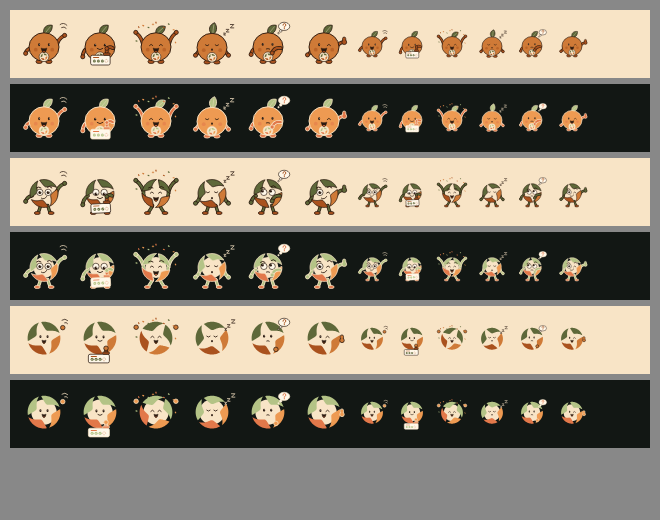
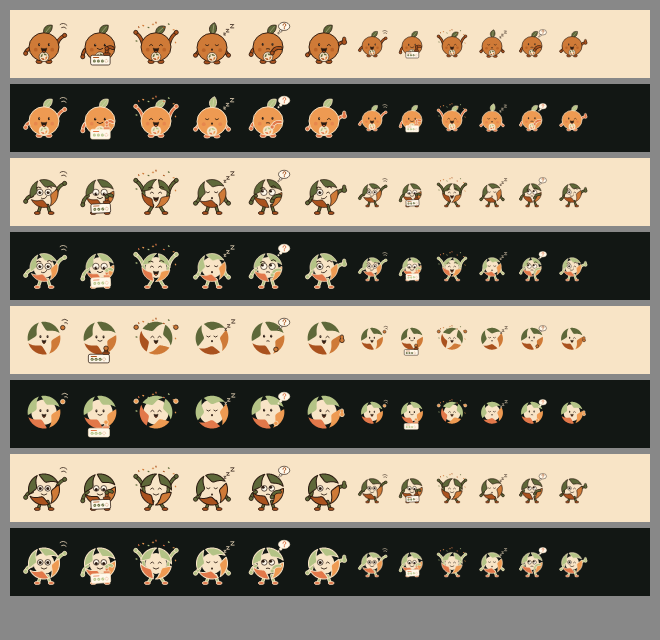
Add small-size Whirl variant and size check

diff --git a/brand/mascot/src/build.py b/brand/mascot/src/build.py
@@ -223,7 +223,7 @@ def dot(t, pose):
 
 
 # ---------- WHIRL: cheeky loop with arms and legs ----------
-def whirl(t, pose):
+def whirl(t, pose, small=False):
     out, O, R = t['OUT'], t['O'], t['R']
     rh, lh = HANDS[pose]
     br, bl = BEND[pose]
@@ -241,7 +241,7 @@ def whirl(t, pose):
     if pose not in ('think', 'stamp'):
         s.append(arm(t, rs, rh, br, O))
     s.append(f'<circle cx="{cx}" cy="{cy}" r="56" fill="{t["P"]}"/>')
-    s.append(mark_group(t, 0.63, cx, cy, tilt, outline=out, ow=4.2))
+    s.append(mark_group(t, 0.70 if small else 0.63, cx, cy, tilt, outline=out, ow=5.5 if small else 4.2))
     ey = cy - 6
     ink = t['INK']
 
@@ -252,8 +252,19 @@ def whirl(t, pose):
         b = brow(88, ey - 24, 112, ey - 24) + brow(146, ey - 28, 170, ey - 24)
     if pose == 'think':
         b = brow(88, ey - 22, 112, ey - 22) + brow(146, ey - 32, 170, ey - 28)
-    s.append(draw_face(t, pose, (106, 150), ey, 128, cy + 22, googly=True, w=14))
-    s.append(b)
+    if small:
+        # plain face: no brows, solid pupils, big smile; reads at 32 px
+        kind, look, m = FACE[pose]
+        def se(x):
+            if kind in ('happy', 'closed') or (pose == 'thumbs' and x > 128):
+                return eye(t, 'happy' if kind != 'closed' else 'closed', x, ey)
+            return (f'<circle cx="{x}" cy="{ey}" r="15" fill="{t["W"]}" stroke="{ink}" stroke-width="4"/>'
+                    f'<circle cx="{x + look[0] * 6}" cy="{ey + look[1] * 6}" r="8" fill="{ink}"/>')
+        mm = {'grin': 'smile', 'smirk': 'smile'}.get(m, m)
+        s.append(se(108) + se(148) + mouth(t, mm, 128, cy + 24, 15))
+    else:
+        s.append(draw_face(t, pose, (106, 150), ey, 128, cy + 22, googly=True, w=14))
+        s.append(b)
     if pose == 'stamp':
         s.append(card(t, 80, 190, 104, 50, rot=-3, filled=3))
         sp = (164, 190)
@@ -301,6 +312,7 @@ def pip(t, pose):
 
 
 CHARS = {'dot': dot, 'whirl': whirl, 'pip': pip}
+SMALL = lambda t, pose: whirl(t, pose, small=True)
 
 
 def main():
@@ -310,6 +322,9 @@ def main():
         for name, fn in CHARS.items():
             for pose in POSES:
                 (d / f'{name}-{pose}.svg').write_text(fn(t, pose), encoding='utf-8')
+            (d / f'whirl-small-{pose}.svg').write_text(SMALL(t, pose), encoding='utf-8') if False else None
+        for pose in POSES:
+            (d / f'whirl-small-{pose}.svg').write_text(SMALL(t, pose), encoding='utf-8')
     print('wrote', len(list((ROOT / 'svg').rglob('*.svg'))), 'svgs')
 
 

diff --git a/brand/mascot/src/render.py b/brand/mascot/src/render.py
@@ -33,7 +33,7 @@ def main():
     for dark in (False, True):
         d = B / 'png' / ('dark' if dark else '')
         d.mkdir(parents=True, exist_ok=True)
-        for name, *_ in NAMES:
+        for name in [n[0] for n in NAMES] + ['whirl-small']:
             for pose in POSES:
                 html = f'<body style="margin:0;background:transparent"><img src="{uri(name, pose, dark)}" width="512" height="512" style="display:block"></body>'
                 shot(html, 512, 512, str(d / f'{name}-{pose}.png'), transparent=True)
@@ -65,12 +65,12 @@ def main():
 
     # 48px / 32px legibility check for all six poses of all three concepts
     cells = []
-    for name, title, *_ in NAMES:
+    for name, title in [(n[0], n[1]) for n in NAMES] + [('whirl-small', 'Whirl small')]:
         for dark in (False, True):
             bg = '#121714' if dark else '#F8E4C6'
             imgs = ''.join(f'<img src="{uri(name, p, dark)}" width="48" height="48">' for p in POSES) + ''.join(f'<img src="{uri(name, p, dark)}" width="32" height="32">' for p in POSES)
             cells.append(f'<div style="background:{bg};padding:10px;display:flex;gap:8px;align-items:center;margin-bottom:6px">{imgs}</div>')
-    shot(f'<body style="margin:0;padding:10px;background:#888;width:640px">{"".join(cells)}</body>', 660, 520, str(B / 'sizes.png'))
+    shot(f'<body style="margin:0;padding:10px;background:#888;width:640px">{"".join(cells)}</body>', 660, 640, str(B / 'sizes.png'))
 
 
 if __name__ == '__main__':

diff --git a/CLAUDE_HANDOFF.md b/CLAUDE_HANDOFF.md
@@ -15,7 +15,8 @@ need Claude's sign-off before the next one starts.
 - **Checks done:** all 36 SVGs generated and rendered in headless Chrome; looked at the contact sheet and individual PNGs; 96/64/48/32 px check on paper and on `#121714`. Recommendation in the README is Dot.
 - **Not done / not verified:** no app or website code changed, no build or OTA. Not tried in an app, splash or icon. Pip's hands/thumb are the roughest drawings. Copy is proposed, not reviewed; old lines were copied from the code, not seen on screen.
 - **Decision (owner, 2026-11-15): Whirl is the mascot.** Dot and Pip are dropped.
-- **Next (Claude):** make a simple small-size Whirl (plain face, fewer blade outlines) so it holds at 32 px, then wait for the owner's yes on the onboarding lines before wiring the mascot and copy into both apps and the website (OTA where JS-only).
+- **Done:** small-size Whirl added (`brand/mascot/svg/whirl-small-*`), checked by eye at 48/32 px on light and dark; modest gain, use the plain brand mark below 32 px.
+- **Next (Claude):** wait for the owner's yes on the onboarding lines before wiring the mascot and copy into both apps and the website (OTA where JS-only).
 
 ## 2026-11-15 - New app icons wired in, NO build started - Claude
 - **Owner approved the redrawn brand mark.** Copied `brand/png/` into both apps' `assets/`: `icon.png`, `android-icon-foreground.png`, `android-icon-monochrome.png`, `splash-icon.png`, `favicon.png`. Both app.json adaptive icons now use `android-icon-foreground.png` as `foregroundImage` (was `icon.png`) with background `#F8E4C6` (Business was `#FDF8EA`). The two apps now share one icon (the old Business icon lacked the orange leaves).

diff --git a/brand/mascot/README.md b/brand/mascot/README.md
@@ -6,6 +6,8 @@ Open `concepts.png` first (one-page contact sheet: all 18 poses on paper and on 
 
 **Decision: the owner chose Whirl (2026-11-15).** Dot and Pip are kept here only for reference.
 
+**Small-size Whirl:** `svg/whirl-small-<pose>.svg` (and `png/`, dark versions) is a simpler Whirl for 48 px and below: plain round eyes, no brows, simple smile, slightly larger body, heavier outlines. In `sizes.png` (last two rows) it reads a little cleaner at 32 px than the full version, but the blades and limbs are still busy at that size; below 32 px use the plain brand mark instead. Not tested in an app.
+
 ## The three concepts
 
 | Name | Character | How it comes from the loop | Personality |
